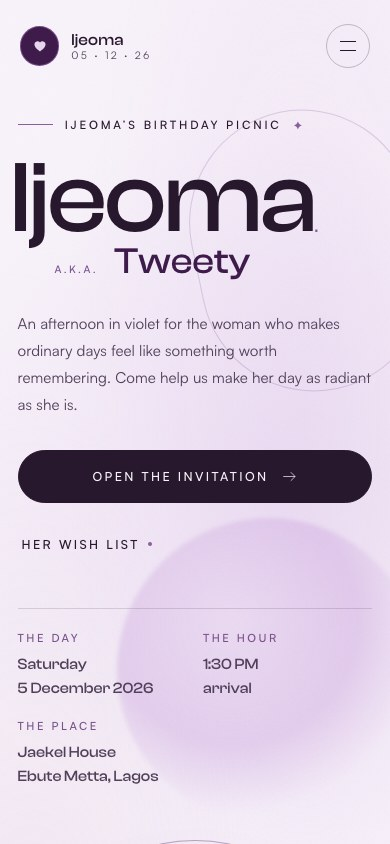
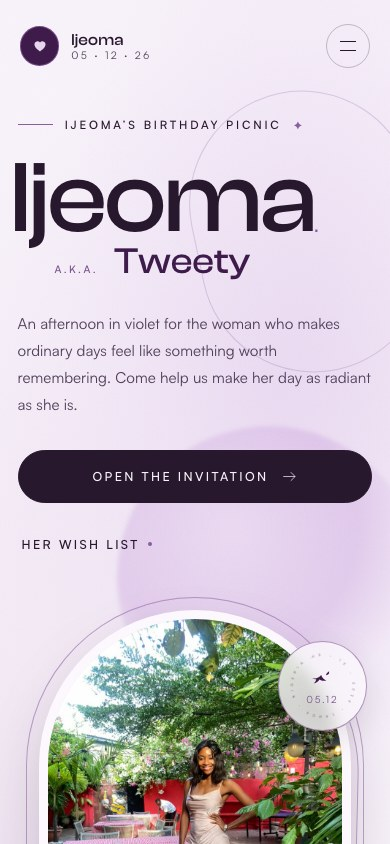
Simplify hero and rename invitation kicker

Changed region(s): [[0.0308, 0.6777, 0.9538, 1.0]]

diff --git a/src/components/Hero.jsx b/src/components/Hero.jsx
@@ -120,7 +120,7 @@ export default function Hero({ ready }) {
       <Botanical />
       <div className="pointer-events-none absolute inset-[1.1rem] z-[6] hidden border border-orchid/25 min-[761px]:block" />
 
-      <div className="container-page relative z-[2] grid grid-cols-1 items-center gap-16 min-[901px]:grid-cols-[1.08fr_0.92fr] min-[901px]:gap-[clamp(2rem,5vw,5rem)]">
+      <div className="container-page relative z-[2] grid grid-cols-1 items-center gap-10 min-[901px]:grid-cols-[1.08fr_0.92fr] min-[901px]:gap-[clamp(2rem,5vw,5rem)]">
         <div className="relative z-[3] max-w-[650px]">
           <FadeUp
             as="p"
@@ -208,31 +208,6 @@ export default function Hero({ ready }) {
             </a>
           </FadeUp>
 
-          <FadeUp
-            ready={ready}
-            delay={780}
-            className="mt-[clamp(2.3rem,4.5vh,3.4rem)] grid max-w-[540px] grid-cols-2 gap-4 border-t border-ink/15 pt-5 max-[380px]:grid-cols-1 min-[521px]:grid-cols-3"
-          >
-            {[
-              ["The day", "Saturday", "5 December 2026"],
-              ["The hour", "1:30 PM", "arrival"],
-              ["The place", "Jaekel House", "Ebute Metta, Lagos"],
-            ].map(([label, line1, line2], index) => (
-              <div
-                key={label}
-                className={index === 2 ? "col-span-2 max-[380px]:col-span-1 min-[521px]:col-span-1" : ""}
-              >
-                <span className="mb-1.5 block text-[0.7rem] uppercase tracking-[0.22em] text-orchid-dark">
-                  {label}
-                </span>
-                <p className="font-serif text-[0.96rem] leading-[1.55] text-ink-soft">
-                  {line1}
-                  <br />
-                  {line2}
-                </p>
-              </div>
-            ))}
-          </FadeUp>
 
         </div>
 

diff --git a/src/components/Invitation.jsx b/src/components/Invitation.jsx
@@ -38,7 +38,7 @@ export default function Invitation() {
       <div className="container-page relative">
         <Reveal className="mx-auto mb-10 max-w-[850px] text-center">
           <p className="mb-4 text-[0.8rem] font-medium uppercase tracking-[0.24em] text-orchid-dark">
-            A garden invitation
+            A picnic invitation
           </p>
           <h2 className="font-serif text-[clamp(2.4rem,8vw,5.6rem)] font-semibold leading-[0.98] tracking-[-0.025em] text-ink">
             Come for the cake.

diff --git a/README.md b/README.md
@@ -33,7 +33,7 @@ Directions: **+234 703 562 8526** or **+234 705 718 8970**.
 - **RSVP:** short form, confirmation, native share and `.ics` calendar download.
 - **Extras:** floating music control, confetti, soft dust, scroll reveals, reduced-motion support.
 
-The main page is intentionally much shorter than the previous version: roughly **6,300px on desktop** and **8,300px on mobile**, with repeated copy removed.
+The main page is intentionally much shorter than the previous version: roughly **6,300px on desktop** and **8,000px on mobile**, with repeated copy removed.
 
 ## Money gifts
 
